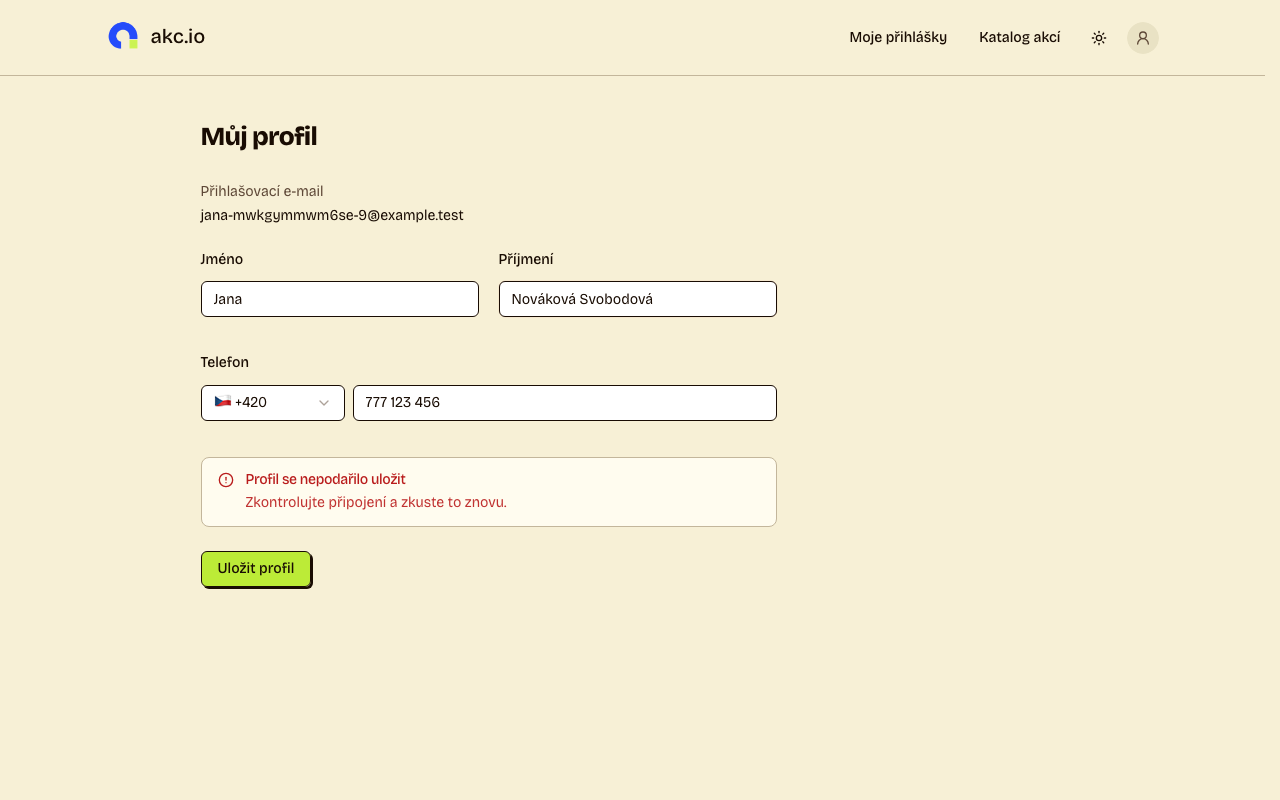
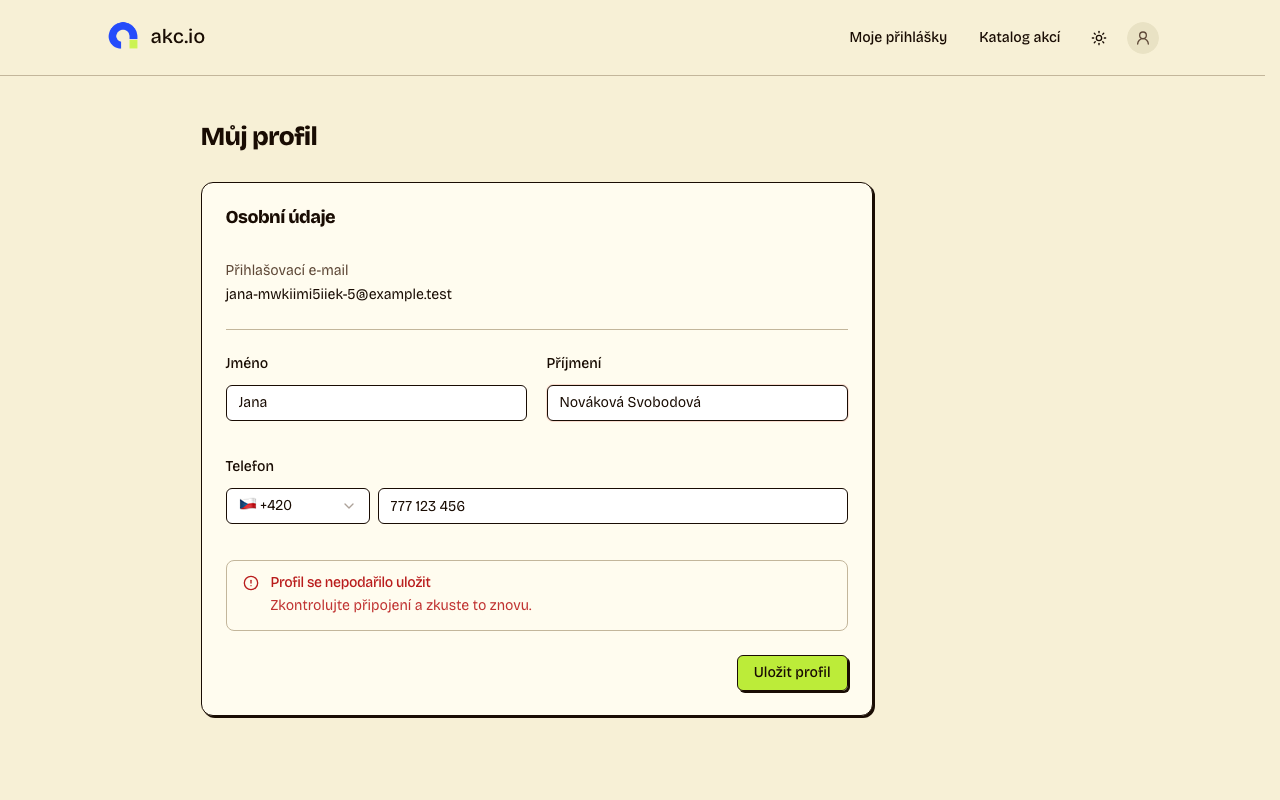
feat(participant): Můj profil in a card like the other forms (S4-08)
The profile fields sit in a card titled Osobní údaje; the sign-in e-mail heads
the card and Uložit profil sits at its trailing end. Screenshots updated.

Changed region(s): [[0.1562, 0.2188, 0.6875, 0.9062]]

diff --git a/apps/frontend/src/features/participant-access/components/ParticipantProfileForm.tsx b/apps/frontend/src/features/participant-access/components/ParticipantProfileForm.tsx
@@ -7,6 +7,7 @@ import { DefinitionList, DefinitionRow } from "@/components/DefinitionList"
 import { FormError } from "@/components/FormError"
 import { PendingButton } from "@/components/PendingButton"
 import { PhoneField } from "@/components/PhoneField"
+import { Card, CardContent, CardFooter, CardHeader, CardTitle } from "@/components/ui/card"
 import {
   Form,
   FormControl,
@@ -16,6 +17,7 @@ import {
   FormMessage,
 } from "@/components/ui/form"
 import { Input } from "@/components/ui/input"
+import { Separator } from "@/components/ui/separator"
 import { readApiError } from "@/lib/apiError"
 import { formatPhone, toE164 } from "@/lib/phone"
 import { PHONE_FIELD_MESSAGE } from "@/lib/phoneCountries"
@@ -72,74 +74,88 @@ export function ParticipantProfileForm({ profile }: ParticipantProfileFormProps)
         noValidate
         aria-label="Můj profil"
         onSubmit={form.handleSubmit(onSubmit)}
-        className="max-w-xl space-y-6"
+        className="max-w-2xl"
       >
-        <DefinitionList layout="stacked">
-          <DefinitionRow label="Přihlašovací e-mail">{profile.email}</DefinitionRow>
-        </DefinitionList>
-        <div className="grid gap-5 sm:grid-cols-2">
-          <FormField
-            control={form.control}
-            name="firstName"
-            render={({ field }) => (
-              <FormItem>
-                <FormLabel>Jméno</FormLabel>
-                <FormControl>
-                  <Input
-                    autoComplete="given-name"
-                    {...field}
-                  />
-                </FormControl>
-                <FormMessage className="min-h-0" />
-              </FormItem>
-            )}
-          />
-          <FormField
-            control={form.control}
-            name="lastName"
-            render={({ field }) => (
-              <FormItem>
-                <FormLabel>Příjmení</FormLabel>
-                <FormControl>
-                  <Input
-                    autoComplete="family-name"
-                    {...field}
-                  />
-                </FormControl>
-                <FormMessage className="min-h-0" />
-              </FormItem>
-            )}
-          />
-        </div>
-        <FormField
-          control={form.control}
-          name="phone"
-          render={({ field }) => (
-            <FormItem>
-              <FormLabel>Telefon</FormLabel>
-              <FormControl>
-                <PhoneField {...field} />
-              </FormControl>
-              <FormMessage className="min-h-0" />
-            </FormItem>
-          )}
-        />
-        {save.isError ? (
-          <FormError
-            title="Profil se nepodařilo uložit"
-            message={
-              readApiError(save.error).status === 400
-                ? "Zkontrolujte zadané údaje a uložte je znovu."
-                : "Zkontrolujte připojení a zkuste to znovu."
-            }
-          />
-        ) : null}
-        <PendingButton
-          type="submit"
-          isPending={save.isPending}
-        >
-          {save.isPending ? "Ukládám…" : "Uložit profil"}
-        </PendingButton>
+        <Card>
+          <CardHeader>
+            <CardTitle>
+              <h2 className="text-h4">Osobní údaje</h2>
+            </CardTitle>
+          </CardHeader>
+          <CardContent>
+            <div className="space-y-6">
+              <DefinitionList layout="stacked">
+                <DefinitionRow label="Přihlašovací e-mail">{profile.email}</DefinitionRow>
+              </DefinitionList>
+              <Separator />
+              <div className="grid gap-5 sm:grid-cols-2">
+                <FormField
+                  control={form.control}
+                  name="firstName"
+                  render={({ field }) => (
+                    <FormItem>
+                      <FormLabel>Jméno</FormLabel>
+                      <FormControl>
+                        <Input
+                          autoComplete="given-name"
+                          {...field}
+                        />
+                      </FormControl>
+                      <FormMessage className="min-h-0" />
+                    </FormItem>
+                  )}
+                />
+                <FormField
+                  control={form.control}
+                  name="lastName"
+                  render={({ field }) => (
+                    <FormItem>
+                      <FormLabel>Příjmení</FormLabel>
+                      <FormControl>
+                        <Input
+                          autoComplete="family-name"
+                          {...field}
+                        />
+                      </FormControl>
+                      <FormMessage className="min-h-0" />
+                    </FormItem>
+                  )}
+                />
+              </div>
+              <FormField
+                control={form.control}
+                name="phone"
+                render={({ field }) => (
+                  <FormItem>
+                    <FormLabel>Telefon</FormLabel>
+                    <FormControl>
+                      <PhoneField {...field} />
+                    </FormControl>
+                    <FormMessage className="min-h-0" />
+                  </FormItem>
+                )}
+              />
+              {save.isError ? (
+                <FormError
+                  title="Profil se nepodařilo uložit"
+                  message={
+                    readApiError(save.error).status === 400
+                      ? "Zkontrolujte zadané údaje a uložte je znovu."
+                      : "Zkontrolujte připojení a zkuste to znovu."
+                  }
+                />
+              ) : null}
+            </div>
+          </CardContent>
+          <CardFooter className="justify-end">
+            <PendingButton
+              type="submit"
+              isPending={save.isPending}
+            >
+              {save.isPending ? "Ukládám…" : "Uložit profil"}
+            </PendingButton>
+          </CardFooter>
+        </Card>
       </form>
     </Form>
   )

diff --git a/apps/frontend/src/features/participant-access/components/ParticipantProfile.tsx b/apps/frontend/src/features/participant-access/components/ParticipantProfile.tsx
@@ -39,7 +39,7 @@ export function ParticipantProfile({ sessionEnded }: ParticipantProfileProps) {
       ) : (
         <LoadingBlock
           label="Načítání profilu"
-          className="max-w-xl space-y-4"
+          className="max-w-2xl space-y-4"
         >
           <Skeleton className="h-10 w-full" />
           <Skeleton className="h-10 w-full" />
